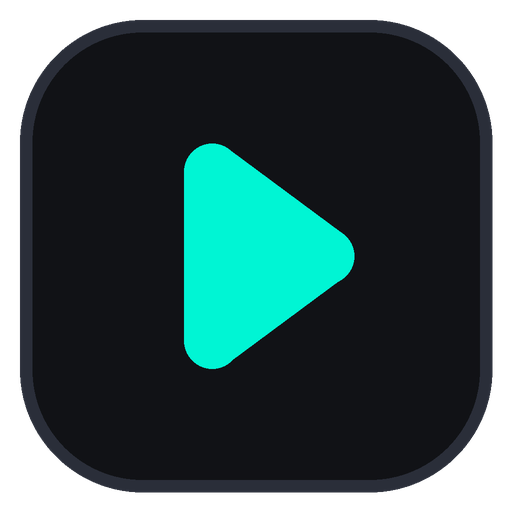
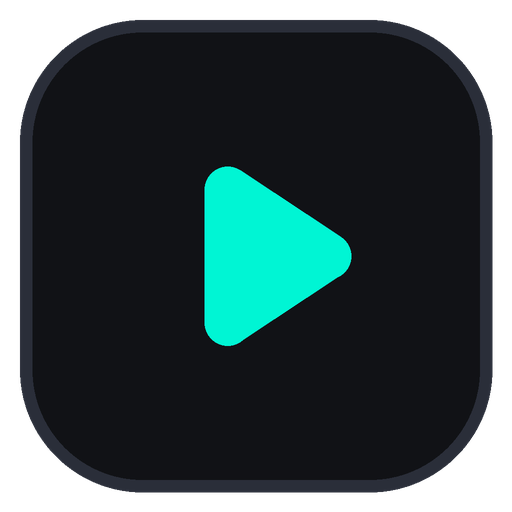
fix(nav): clean dock layout, remove beta/theme buttons, remove hover tooltips, and normalize play button proportions

Changed region(s): [[0.3438, 0.2812, 0.5938, 0.7188], [0.5938, 0.4062, 0.6875, 0.5938]]

diff --git a/src/App.jsx b/src/App.jsx
@@ -186,39 +186,19 @@ function AppContent() {
         </div>
       </header>
 
-      {/* Desktop Floating Vertical Glass Navigation Dock */}
-      <aside data-testid="desktop-navigation" aria-label="Primary navigation" className="fixed left-3.5 top-1/2 z-50 hidden -translate-y-1/2 flex-col items-center space-y-3 rounded-2xl border border-white/10 bg-card/85 p-2.5 shadow-2xl backdrop-blur-2xl lg:flex">
+      {/* Desktop Floating Vertical Glass Navigation Dock (Evenly spaced, clean minimal dock) */}
+      <aside data-testid="desktop-navigation" aria-label="Primary navigation" className="fixed left-3.5 top-1/2 z-50 hidden -translate-y-1/2 flex-col items-center justify-center gap-3 rounded-2xl border border-border/80 bg-card/85 p-2 shadow-2xl backdrop-blur-2xl lg:flex">
         {/* Brand Logo Icon */}
         <Link 
           to="/" 
           onMouseEnter={preloadDashboard}
-          className="w-10 h-10 rounded-xl bg-primary/10 border border-primary/25 flex items-center justify-center shadow-sm hover:scale-105 transition cursor-pointer group relative"
-          title="Foclyra Home Dashboard"
+          aria-label="Foclyra Home"
+          className="w-10 h-10 rounded-xl flex items-center justify-center transition duration-200 hover:scale-105 cursor-pointer"
         >
-          <img src="/logo.svg" alt="Foclyra" className="w-5 h-5 flex-shrink-0 group-hover:scale-110 transition" />
-          <span className="absolute left-full ml-3 px-2.5 py-1 rounded-lg bg-popover border border-border text-popover-foreground text-xs font-semibold whitespace-nowrap opacity-0 group-hover:opacity-100 transition pointer-events-none shadow-lg z-50">
-            Foclyra Home
-          </span>
+          <img src="/logo.svg" alt="Foclyra" className="w-7 h-7 flex-shrink-0" />
         </Link>
 
-        {/* Beta Version Badge */}
-        <button
-          type="button"
-          onClick={openBetaModal}
-          className="px-1.5 py-0.5 rounded-md bg-emerald-500/10 hover:bg-emerald-500/20 text-emerald-600 dark:text-emerald-400 border border-emerald-500/25 text-[8px] font-bold uppercase tracking-wider transition cursor-pointer flex items-center gap-1 group relative"
-          title="Foclyra is in Public Beta. Click for details."
-        >
-          <span className="w-1 h-1 rounded-full bg-emerald-500 animate-pulse" />
-          <span>Beta</span>
-          <span className="absolute left-full ml-3 px-2.5 py-1 rounded-lg bg-popover border border-border text-popover-foreground text-xs font-semibold whitespace-nowrap opacity-0 group-hover:opacity-100 transition pointer-events-none shadow-lg z-50">
-            Public Beta v1.0 • Stable & Offline Ready
-          </span>
-        </button>
-
-        {/* Subtle Divider */}
-        <div className="w-5 h-[1px] bg-border my-0.5" />
-
-        {/* Navigation Dock Items */}
+        {/* Navigation Dock Items (Evenly distributed, no hover description popups) */}
         {navigationItems.map((item) => {
           const isActive = isNavigationActive(location.pathname, item.path);
           const Icon = item.icon;
@@ -232,39 +212,16 @@ function AppContent() {
               onMouseEnter={handleHover}
               aria-label={item.name}
               aria-current={isActive ? 'page' : undefined}
-              className={`relative w-10 h-10 rounded-xl transition duration-200 flex items-center justify-center cursor-pointer group ${
+              className={`w-10 h-10 rounded-xl transition duration-200 flex items-center justify-center cursor-pointer ${
                 isActive 
                   ? 'bg-primary/15 text-primary border border-primary/30 shadow-sm' 
                   : 'text-muted-foreground hover:text-foreground hover:bg-muted'
               }`}
             >
-              <Icon size={19} className={isActive ? 'text-primary' : 'text-muted-foreground group-hover:text-foreground'} />
-              <span className="absolute left-full ml-3 px-2.5 py-1 rounded-lg bg-popover border border-border text-popover-foreground text-xs font-semibold whitespace-nowrap opacity-0 group-hover:opacity-100 transition pointer-events-none shadow-lg z-50">
-                {item.name}
-              </span>
+              <Icon size={19} className={isActive ? 'text-primary' : 'text-muted-foreground'} />
             </Link>
           );
         })}
-
-        {/* Subtle Divider */}
-        <div className="w-5 h-[1px] bg-border my-0.5" />
-
-        {/* Desktop Theme Switcher Button */}
-        <button
-          onClick={toggleTheme}
-          aria-label={isDark ? "Switch to Light Mode" : "Switch to Dark Mode"}
-          className="relative w-10 h-10 rounded-xl transition duration-200 flex items-center justify-center cursor-pointer group text-muted-foreground hover:text-foreground hover:bg-muted"
-          title={isDark ? "Switch to Light Mode" : "Switch to Dark Mode"}
-        >
-          {isDark ? (
-            <Sun size={18} className="text-amber-400 group-hover:rotate-45 transition-transform" />
-          ) : (
-            <Moon size={18} className="text-zinc-700 group-hover:-rotate-12 transition-transform" />
-          )}
-          <span className="absolute left-full ml-3 px-2.5 py-1 rounded-lg bg-popover border border-border text-popover-foreground text-xs font-semibold whitespace-nowrap opacity-0 group-hover:opacity-100 transition pointer-events-none shadow-lg z-50">
-            {isDark ? 'Light Mode' : 'Dark Mode'}
-          </span>
-        </button>
       </aside>
 
       {/* Mobile Drawer Navigation (Slide-out) */}
